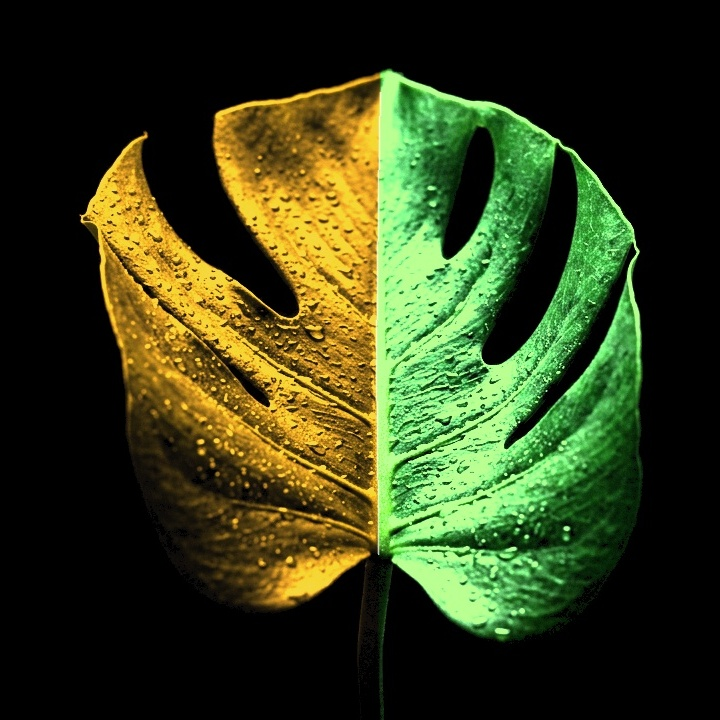
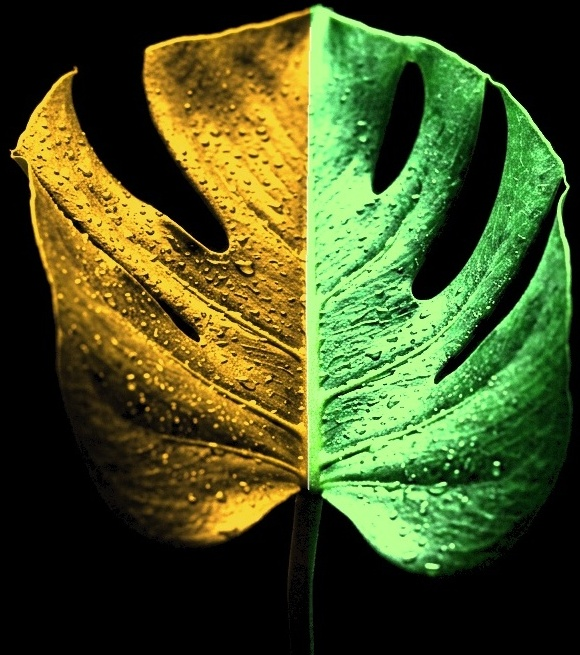
feat(paywall): full feature lockdown, centered comparison badges, expanded hero leaf visual, and subscription expiration status

diff --git a/web/js/app.js b/web/js/app.js
@@ -71,6 +71,15 @@ class FloraApp {
   }
 
   showScreen(screenKey) {
+    // Hard paywall lockdown: Only dashboard, paywall, quiz, and computing are accessible without Pro
+    if (!purchasesManager.isPro) {
+      const allowedWithoutPro = ["dashboard", "paywall", "quiz", "computing"];
+      if (!allowedWithoutPro.includes(screenKey)) {
+        this.showPaywall("screen_lock_" + screenKey);
+        return;
+      }
+    }
+
     Object.values(this.screens).forEach(el => {
       if (el) el.classList.remove("active");
     });
@@ -106,11 +115,21 @@ class FloraApp {
 
   initTabBar() {
     document.querySelectorAll(".tab-item").forEach(btn => {
-      btn.addEventListener("click", () => {
+      btn.addEventListener("click", (e) => {
         const target = btn.getAttribute("data-target");
-        if (target) {
-          this.showScreen(target);
+        if (!target) return;
+        if (target === "dashboard") {
+          this.showScreen("dashboard");
+          return;
         }
+        // Clicking on Camera (Scan) or Luxmeter must immediately show Paywall if not Pro
+        if (!purchasesManager.isPro) {
+          e.preventDefault();
+          e.stopPropagation();
+          this.showPaywall("tab_" + target);
+          return;
+        }
+        this.showScreen(target);
       });
     });
   }
@@ -262,6 +281,8 @@ class FloraApp {
   }
 
   handleEntitlementUpdate(isPro) {
+    this.renderProStatusBadge();
+    this.renderGardenList();
     if (this.lastDiagnosedPlant && this.currentScreen === "diagnosis") {
       this.renderDiagnosis(this.lastDiagnosedPlant);
     }
@@ -366,12 +387,7 @@ class FloraApp {
     if (closeBtn) {
       closeBtn.addEventListener("click", () => {
         localStorage.setItem("flora_onboarding_completed", "true");
-        if (this.lastDiagnosedPlant && this.currentScreen === "paywall") {
-          this.showScreen("diagnosis");
-          this.renderDiagnosis(this.lastDiagnosedPlant);
-        } else {
-          this.showScreen("dashboard");
-        }
+        this.showScreen("dashboard");
       });
     }
   }
@@ -379,8 +395,8 @@ class FloraApp {
   initScanner() {
     this.scanner = new PlantScanner({
       beforeScan: () => {
-        if (!purchasesManager.isPro && this.freeScansUsed >= 1) {
-          this.showPaywall("scanner_limit");
+        if (!purchasesManager.isPro) {
+          this.showPaywall("scanner_pro_required");
           return false;
         }
         return true;
@@ -424,9 +440,10 @@ class FloraApp {
     const captureBtn = document.getElementById("btn-capture-scan");
     if (captureBtn) {
       captureBtn.addEventListener("click", (e) => {
-        if (!purchasesManager.isPro && this.freeScansUsed >= 1) {
+        if (!purchasesManager.isPro) {
           e.stopImmediatePropagation();
-          this.showPaywall("scanner_limit");
+          e.preventDefault();
+          this.showPaywall("scanner_capture");
         }
       }, true);
     }
@@ -472,10 +489,33 @@ class FloraApp {
     }
   }
 
+  renderProStatusBadge() {
+    const badgeEl = document.getElementById("dashboard-pro-status");
+    const labelEl = document.getElementById("pro-status-date-label");
+    if (!badgeEl || !labelEl) return;
+
+    if (purchasesManager.isPro) {
+      const expDate = purchasesManager.getFormattedExpirationDate();
+      const isRu = (navigator.language || "").startsWith("ru");
+      if (expDate) {
+        labelEl.textContent = isRu
+          ? `Flora Pro активна до ${expDate}`
+          : `Flora Pro active until ${expDate}`;
+      } else {
+        labelEl.textContent = isRu ? "Flora Pro активна" : "Flora Pro Active";
+      }
+      badgeEl.style.display = "inline-flex";
+    } else {
+      badgeEl.style.display = "none";
+    }
+  }
+
   initDashboard() {
+    this.renderProStatusBadge();
     this.renderGardenList();
 
     window.addEventListener("flora:entitlement_updated", () => {
+      this.renderProStatusBadge();
       this.renderGardenList();
     });
 
@@ -491,15 +531,21 @@ class FloraApp {
 
     document.querySelectorAll(".segment-btn").forEach(btn => {
       btn.addEventListener("click", () => {
+        const filter = btn.getAttribute("data-filter") || "all";
+        if (filter !== "all" && !purchasesManager.isPro) {
+          this.showPaywall("garden_filter_" + filter);
+          return;
+        }
         document.querySelectorAll(".segment-btn").forEach(b => b.classList.remove("active"));
         btn.classList.add("active");
-        this.gardenFilter = btn.getAttribute("data-filter") || "all";
+        this.gardenFilter = filter;
         this.renderGardenList();
       });
     });
   }
 
   renderGardenList() {
+    this.renderProStatusBadge();
     const container = document.getElementById("garden-plants-list");
     const vitalityDisplay = document.getElementById("garden-vitality-score");
     const countDisplay = document.getElementById("garden-count-badge");
@@ -523,6 +569,10 @@ class FloraApp {
       const scanBtn = document.getElementById("btn-empty-scan-first");
       if (scanBtn) {
         scanBtn.addEventListener("click", () => {
+          if (!purchasesManager.isPro) {
+            this.showPaywall("empty_scan_first");
+            return;
+          }
           this.showScreen("scanner");
         });
       }
@@ -574,12 +624,20 @@ class FloraApp {
       `;
 
       el.addEventListener("click", () => {
+        if (!purchasesManager.isPro) {
+          this.showPaywall("garden_plant_detail");
+          return;
+        }
         this.renderDiagnosis(plant);
       });
 
       const waterBtn = el.querySelector(".btn-water-item");
       waterBtn.addEventListener("click", (ev) => {
         ev.stopPropagation();
+        if (!purchasesManager.isPro) {
+          this.showPaywall("garden_water_action");
+          return;
+        }
         this.waterPlant(plant.id, waterBtn);
       });
 
@@ -633,8 +691,8 @@ class FloraApp {
 
     if (openBtn && modal) {
       openBtn.addEventListener("click", () => {
-        if (!purchasesManager.isPro && this.myPlants && this.myPlants.length >= 1) {
-          this.showPaywall("garden_plants_limit");
+        if (!purchasesManager.isPro) {
+          this.showPaywall("garden_add_plant");
           return;
         }
         modal.classList.add("active");

diff --git a/web/css/style.css b/web/css/style.css
@@ -328,7 +328,7 @@ body {
 .pw-hero-wrap {
   position: relative;
   width: 100%;
-  height: clamp(175px, 25vh, 220px);
+  height: clamp(210px, 29vh, 260px);
   overflow: hidden;
   background: #000000;
   flex-shrink: 0;
@@ -336,7 +336,7 @@ body {
   flex-direction: column;
   align-items: center;
   justify-content: flex-end;
-  padding-top: calc(var(--safe-top) + 6px);
+  padding-top: calc(var(--safe-top) + 2px);
 }
 
 .pw-hero-img {
@@ -350,21 +350,19 @@ body {
 .pw-hero-fade {
   position: absolute;
   inset: 0;
-  background: linear-gradient(to bottom, rgba(0, 0, 0, 0.35) 0%, transparent 25%, transparent 70%, #000000 100%);
+  background: linear-gradient(to bottom, rgba(0, 0, 0, 0.25) 0%, transparent 20%, transparent 70%, #000000 100%);
   pointer-events: none;
 }
 
-/* Split Leaf Comparison Badges (Positioned below the leaf) */
+/* Split Leaf Comparison Badges (Positioned below the leaf, perfectly centered) */
 .pw-leaf-badges {
-  position: absolute;
-  bottom: 4px;
-  left: 0;
-  right: 0;
+  position: relative;
   display: flex;
   justify-content: center;
-  gap: 24px;
   align-items: center;
-  pointer-events: none;
+  gap: 16px;
+  width: 100%;
+  margin: 6px auto 10px auto;
   z-index: 6;
 }
 
@@ -460,24 +458,6 @@ body {
   overflow: hidden;
 }
 
-.pw-eyebrow {
-  display: inline-flex;
-  align-items: center;
-  justify-content: center;
-  gap: 7px;
-  padding: 3px 12px;
-  border-radius: 999px;
-  background: rgba(0, 240, 118, 0.12);
-  border: 1px solid rgba(0, 240, 118, 0.32);
-  font-size: 10.5px;
-  font-weight: 850;
-  letter-spacing: 0.12em;
-  color: #00F076;
-  margin-top: 6px;
-  margin-bottom: 2px;
-  text-transform: uppercase;
-  box-shadow: 0 0 14px rgba(0, 240, 118, 0.16);
-}
 
 .pw-headline {
   font-size: clamp(21px, 2.8vh, 25px);
@@ -741,6 +721,30 @@ body {
   display: flex;
   align-items: center;
   justify-content: center;
+}
+
+.dash-pro-status-badge {
+  display: inline-flex;
+  align-items: center;
+  gap: 7px;
+  margin-top: 6px;
+  padding: 4px 12px;
+  border-radius: 999px;
+  background: rgba(0, 240, 118, 0.08);
+  border: 1px solid rgba(0, 240, 118, 0.28);
+  font-size: 11.5px;
+  font-weight: 750;
+  color: #00F076;
+  letter-spacing: 0.02em;
+}
+
+.pro-status-dot {
+  width: 6px;
+  height: 6px;
+  border-radius: 50%;
+  background: #00F076;
+  box-shadow: 0 0 8px #00F076;
+  flex-shrink: 0;
 }
 
 .hero-vitality-card {

diff --git a/web/js/purchases.js b/web/js/purchases.js
@@ -133,6 +133,13 @@ class PurchasesManager {
     if (active) {
       this.isPro = true;
       localStorage.setItem("flora_pro_subscriber", "true");
+      if (customerInfo.latestExpirationDate) {
+        localStorage.setItem("flora_subscription_expires", customerInfo.latestExpirationDate);
+      } else if (!localStorage.getItem("flora_subscription_expires")) {
+        const d = new Date();
+        d.setFullYear(d.getFullYear() + 1);
+        localStorage.setItem("flora_subscription_expires", d.toISOString());
+      }
       window.dispatchEvent(
         new CustomEvent("flora:entitlement_updated", { detail: { isPro: true } })
       );
@@ -367,6 +374,43 @@ class PurchasesManager {
       new CustomEvent("flora:entitlement_updated", { detail: { isPro: true } })
     );
     return { success: true, simulated: true };
+  }
+
+  /**
+   * Get subscription expiration ISO date string
+   */
+  getSubscriptionExpirationDate() {
+    let exp = localStorage.getItem("flora_subscription_expires");
+    if (!exp && this.customerInfo) {
+      exp = this.customerInfo.latestExpirationDate ||
+            this.customerInfo.entitlements?.active?.[REVENUECAT_CONFIG.entitlementId]?.expirationDate ||
+            Object.values(this.customerInfo.entitlements?.active || {})[0]?.expirationDate;
+    }
+    if (!exp && this.isPro) {
+      const d = new Date();
+      d.setFullYear(d.getFullYear() + 1);
+      exp = d.toISOString();
+      localStorage.setItem("flora_subscription_expires", exp);
+    }
+    return exp;
+  }
+
+  /**
+   * Format localized expiration date string (e.g. "1 октября 2027 г." or "Oct 1, 2027")
+   */
+  getFormattedExpirationDate() {
+    const exp = this.getSubscriptionExpirationDate();
+    if (!exp) return null;
+    try {
+      const date = new Date(exp);
+      const isRu = (navigator.language || "").startsWith("ru");
+      if (isRu) {
+        return date.toLocaleDateString("ru-RU", { day: "numeric", month: "long", year: "numeric" });
+      }
+      return date.toLocaleDateString("en-US", { month: "short", day: "numeric", year: "numeric" });
+    } catch (e) {
+      return null;
+    }
   }
 
   /**

diff --git a/web/index.html b/web/index.html
@@ -56,8 +56,11 @@
       <div class="pw-hero-wrap">
         <img src="assets/paywall_monstera_split.jpg" alt="Botanical Vitality" class="pw-hero-img">
         <div class="pw-hero-fade"></div>
+      </div>
 
-        <!-- Split Leaf Comparison Badges (Positioned below the leaf) -->
+      <!-- Main Body Container -->
+      <div class="pw-body">
+        <!-- Split Leaf Comparison Badges (Positioned below the leaf, perfectly centered) -->
         <div class="pw-leaf-badges">
           <div class="pw-leaf-badge left">
             <span class="pw-badge-dot dry"></span>
@@ -68,14 +71,7 @@
             <span>WITH PRO</span>
           </div>
         </div>
-      </div>
 
-      <!-- Main Body Container -->
-      <div class="pw-body">
-        <div class="pw-eyebrow">
-          <img src="assets/app_icon.png" alt="Flora Pro" class="pw-eyebrow-avatar">
-          <span>FLORA AI PRO</span>
-        </div>
         <h1 class="pw-headline">Never Kill Another Plant</h1>
         <p class="pw-subheadline">Instant botanical diagnostics, clinical recovery protocols, and camera luxmeter.</p>
 
@@ -133,6 +129,10 @@
           <div>
             <div class="date-label">MY COLLECTION</div>
             <h1 class="title-large">My Garden</h1>
+            <div id="dashboard-pro-status" class="dash-pro-status-badge" style="display: none;">
+              <span class="pro-status-dot"></span>
+              <span id="pro-status-date-label">Flora Pro Active</span>
+            </div>
           </div>
         </div>
         <div class="dashboard-top-actions">
